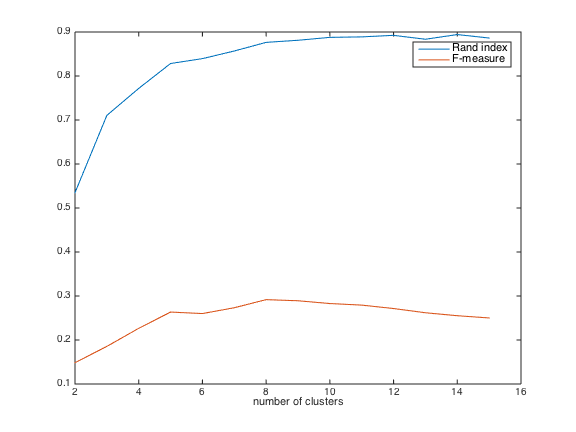
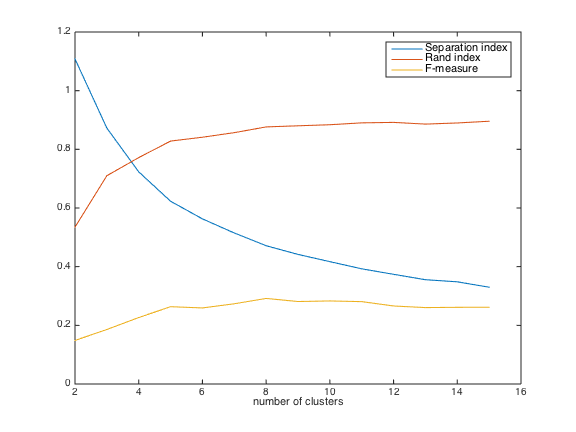
finished part2

diff --git a/Part2.m b/Part2.m
@@ -33,17 +33,33 @@ cluster_singlelink = clusterdata(feaD4, 'linkage', 'single', 'maxclust', 10);
 %% Separation Index of Single Link:                                        
 
 [r,c] = size(feaD4);
+sumdistinc = 0;
+maxdistincs = 0;
 
-centroid_singlelink = zeros(10, 4);
 for i = 1:10
     feaD4_cluster = feaD4((cluster_singlelink == i), :);
-    centroid_singlelink(i, :) = sum(feaD4_cluster,1)/sum((cluster_singlelink == i));
+    centroid = sum(feaD4_cluster,1)/sum((cluster_singlelink == i));
+    sumdistinc = sumdistinc + sum((feaD4_cluster(:, 1) - centroid(1)).^2) + sum((feaD4_cluster(:, 2) - centroid(2)).^2) + sum((feaD4_cluster(:, 3)- centroid(3)).^2) + sum((feaD4_cluster(:, 4) - centroid(4)).^2);
 end
 
-% for i = 1:10
-%     sum((a-b).^2)
-% Separationindex_singlelink = 
+for i = 1:9
+    for j = i+1:10
+        feaD4_cluster_i = feaD4((cluster_singlelink == i), :);
+        numi = sum(cluster_singlelink == i);
+        feaD4_cluster_j = feaD4((cluster_singlelink == j), :);
+        numj = sum(cluster_singlelink == j);
+        for k = 1:numi
+            for l = 1:numj
+                distincs = norm(feaD4_cluster_i(k, :) - feaD4_cluster_j(l, :));
+                if maxdistincs < distincs 
+                    maxdistincs = distincs;
+                end
+            end
+        end
+    end
+end
 
+Separationindex_singlelink = sumdistinc / (r * maxdistincs);
 
 %% Rand index of Single Link:
 
@@ -98,6 +114,37 @@ end
 cluster_completelink = clusterdata(feaD4, 'linkage', 'complete', 'maxclust', 10);
 
 % evaluate the clustering result of Complete Link
+%% Separation Index of Complete Link:                                        
+
+[r,c] = size(feaD4);
+sumdistinc = 0;
+maxdistincs = 0;
+
+for i = 1:10
+    feaD4_cluster = feaD4((cluster_completelink == i), :);
+    centroid = sum(feaD4_cluster,1)/sum((cluster_completelink == i));
+    sumdistinc = sumdistinc + sum((feaD4_cluster(:, 1) - centroid(1)).^2) + sum((feaD4_cluster(:, 2) - centroid(2)).^2) + sum((feaD4_cluster(:, 3)- centroid(3)).^2) + sum((feaD4_cluster(:, 4) - centroid(4)).^2);
+end
+
+for i = 1:9
+    for j = i+1:10
+        feaD4_cluster_i = feaD4((cluster_completelink == i), :);
+        numi = sum(cluster_completelink == i);
+        feaD4_cluster_j = feaD4((cluster_completelink == j), :);
+        numj = sum(cluster_completelink == j);
+        for k = 1:numi
+            for l = 1:numj
+                distincs = norm(feaD4_cluster_i(k, :) - feaD4_cluster_j(l, :));
+                if maxdistincs < distincs
+                    maxdistincs = distincs;
+                end
+            end
+        end
+    end
+end
+
+Separationindex_completelink = sumdistinc / (r * maxdistincs);
+
 %% Rand index of Complete Link:
 [r,c] = size(feaD4);
 M = (r*(r-1))/2; %total number of pairs of samples
@@ -147,7 +194,39 @@ end
 %% Ward's Algorithm(minimum variance algorithm)
 
 cluster_ward = clusterdata(feaD4, 'linkage', 'ward', 'maxclust', 10);
+
 % evaluate the clustering result of Ward's
+%% Separation Index of Ward's:                                        
+
+[r,c] = size(feaD4);
+sumdistinc = 0;
+maxdistincs = 0;
+
+for i = 1:10
+    feaD4_cluster = feaD4((cluster_ward == i), :);
+    centroid = sum(feaD4_cluster,1)/sum((cluster_ward == i));
+    sumdistinc = sumdistinc + sum((feaD4_cluster(:, 1) - centroid(1)).^2) + sum((feaD4_cluster(:, 2) - centroid(2)).^2) + sum((feaD4_cluster(:, 3)- centroid(3)).^2) + sum((feaD4_cluster(:, 4) - centroid(4)).^2);
+end
+
+for i = 1:9
+    for j = i+1:10
+        feaD4_cluster_i = feaD4((cluster_ward == i), :);
+        numi = sum(cluster_ward == i);
+        feaD4_cluster_j = feaD4((cluster_ward == j), :);
+        numj = sum(cluster_ward == j);
+        for k = 1:numi
+            for l = 1:numj
+                distincs = norm(feaD4_cluster_i(k, :) - feaD4_cluster_j(l, :));
+                if maxdistincs < distincs
+                    maxdistincs = distincs;
+                end
+            end
+        end
+    end
+end
+
+Separationindex_ward = sumdistinc / (r * maxdistincs);
+
 %% Rand index of Ward's:
 [r,c] = size(feaD4);
 M = (r*(r-1))/2; %total number of pairs of samples
@@ -195,13 +274,48 @@ for j=1:10
 end
 
 %% Measures for all:
-Part1Measures = [Randindex_singlelink Randindex_completelink Randindex_ward; 
+Part1Measures = [Separationindex_singlelink Separationindex_completelink Separationindex_ward; 
+    Randindex_singlelink Randindex_completelink Randindex_ward; 
     Fmeasure_singlelink Fmeasure_completelink Fmeasure_ward];
 
 %% the number of clusters in Ward's from 2 to 15
-for i = 2:15
-    cluster_ward = clusterdata(feaD4, 'linkage', 'ward', 'maxclust', i);
-    %optimal number of clusters suggested by Separation-Index             need to be added
+[r,c] = size(feaD4);
+Sindex_ward = zeros(1, 14);
+minSindex_ward = 1000;
+
+for m = 2:15
+    cluster_ward = clusterdata(feaD4, 'linkage', 'ward', 'maxclust', m);
+    %optimal number of clusters suggested by Separation-Index   
+    sumdistinc = 0;
+    maxdistincs = 0;
+
+    for i = 1:m
+        feaD4_cluster = feaD4((cluster_ward == i), :);
+        centroid = sum(feaD4_cluster,1)/sum((cluster_ward == i));
+        sumdistinc = sumdistinc + sum((feaD4_cluster(:, 1) - centroid(1)).^2) + sum((feaD4_cluster(:, 2) - centroid(2)).^2) + sum((feaD4_cluster(:, 3)- centroid(3)).^2) + sum((feaD4_cluster(:, 4) - centroid(4)).^2);
+    end
+
+    for i = 1:m-1
+        for j = i+1:m
+            feaD4_cluster_i = feaD4((cluster_ward == i), :);
+            numi = sum(cluster_ward == i);
+            feaD4_cluster_j = feaD4((cluster_ward == j), :);
+            numj = sum(cluster_ward == j);
+            for k = 1:numi
+                for l = 1:numj
+                    distincs = norm(feaD4_cluster_i(k, :) - feaD4_cluster_j(l, :));
+                    if maxdistincs < distincs
+                        maxdistincs = distincs;
+                    end
+                end
+            end
+        end
+    end
+    Sindex_ward = sumdistinc / (r * maxdistincs);
+    if  Sindex_ward < minSindex_ward
+        minSindex_ward = Sindex_ward;
+        bestclunum = m;
+    end
 end
 
 %% Cluster the data using K-means algorithm
@@ -218,8 +332,37 @@ for k = 2:15
     
     [cluster_kmeans,centroid] = kmeans(feaD4, k);
     
-    %Separation index of K-means                                           need to be added
+    %%
+    %Separation index of K-means                                           
+    sumdistinc = 0;
+    maxdistincs = 0;
+
+    for i = 1:k
+        feaD4_cluster = feaD4((cluster_kmeans == i), :);
+        centroid = sum(feaD4_cluster,1)/sum((cluster_kmeans == i));
+        sumdistinc = sumdistinc + sum((feaD4_cluster(:, 1) - centroid(1)).^2) + sum((feaD4_cluster(:, 2) - centroid(2)).^2) + sum((feaD4_cluster(:, 3)- centroid(3)).^2) + sum((feaD4_cluster(:, 4) - centroid(4)).^2);
+    end
+
+    for i = 1:k-1
+        for j = i+1:k
+            feaD4_cluster_i = feaD4((cluster_kmeans == i), :);
+            numi = sum(cluster_kmeans == i);
+            feaD4_cluster_j = feaD4((cluster_kmeans == j), :);
+            numj = sum(cluster_kmeans == j);
+            for m = 1:numi
+                for l = 1:numj
+                    distincs = norm(feaD4_cluster_i(m, :) - feaD4_cluster_j(l, :));
+                    if maxdistincs < distincs
+                        maxdistincs = distincs;
+                    end
+                end
+            end
+        end
+    end
+
+    Separationindex_kmeans(k-1) = sumdistinc / (r * maxdistincs);
     
+    %%
     %Rand index of K-means:
     a = 0; %number of samples in the same class and the same cluster
     b = 0; %number of samples in different classes and different clusters
@@ -236,6 +379,7 @@ for k = 2:15
 
     Randindex_kmeans(k-1) = (a + b) / M;
 
+    %%
     %F-measure of kmeans:
     mij = zeros(k,10);
     ni = zeros(k,1);
@@ -266,14 +410,14 @@ end
 
 %Plot these evaluation measures with respect to the number of clusters
 figure;
-plot(2:15, Randindex_kmeans, 2:15, Fmeasure_kmeans);
+plot(2:15, Separationindex_kmeans, 2:15, Randindex_kmeans, 2:15, Fmeasure_kmeans);
 xlabel('number of clusters');
-legend({'Rand index', 'F-measure'}, 'FontSize', 11); 
+legend({'Separation index', 'Rand index', 'F-measure'}, 'FontSize', 11); 
 print(gcf, 'images\K-Means', '-dpng', '-r0');
 
 % plot(2:15, Separationindex_kmeans);
 % hold on;
-% plot(2:15, Randindex_kmeans,2:15);
+% plot(2:15, Randindex_kmeans);
 % hold on;
 % plot(2:15, Fmeasure_kmeans);
 % hold off;
@@ -320,9 +464,36 @@ for i = 1:10
 end
 
 % evaluate the clustering result of Fuzzy C-means
-%% Separation Index of Fuzzy C-means:                                        need to be added
+%% Separation Index of Fuzzy C-means:                                      
 
 [r,c] = size(feaD4);
+sumdistinc = 0;
+maxdistincs = 0;
+
+for i = 1:k
+    feaD4_cluster = feaD4((cluster_fcmeans == i), :);
+    centroid = sum(feaD4_cluster,1)/sum((cluster_fcmeans == i));
+    sumdistinc = sumdistinc + sum((feaD4_cluster(:, 1) - centroid(1)).^2) + sum((feaD4_cluster(:, 2) - centroid(2)).^2) + sum((feaD4_cluster(:, 3)- centroid(3)).^2) + sum((feaD4_cluster(:, 4) - centroid(4)).^2);
+end
+
+for i = 1:k-1
+    for j = i+1:k
+        feaD4_cluster_i = feaD4((cluster_fcmeans == i), :);
+        numi = sum(cluster_fcmeans == i);
+        feaD4_cluster_j = feaD4((cluster_fcmeans == j), :);
+        numj = sum(cluster_fcmeans == j);
+        for m = 1:numi
+            for l = 1:numj
+                distincs = norm(feaD4_cluster_i(m, :) - feaD4_cluster_j(l, :));
+                if maxdistincs < distincs
+                    maxdistincs = distincs;
+                end
+            end
+        end
+    end
+end
+
+Separationindex_fcmeans = sumdistinc / (r * maxdistincs);
 
 %% Rand index of Fuzzy C-means:
 
